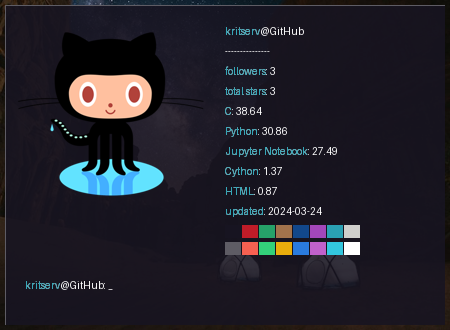
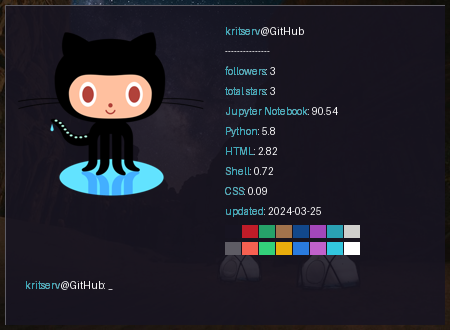
remove data from fork repository in script

Changed region(s): [[0.4978, 0.303, 0.7467, 0.6061], [0.6844, 0.6364, 0.7156, 0.6667]]

diff --git a/code/script.py b/code/script.py
@@ -45,8 +45,9 @@ def get_data(username, session):
         all_languages_urls = []
         
         for repo_data in response.json():
-            all_languages_urls.append(repo_data["languages_url"])
-            total_stars += repo_data["stargazers_count"]
+            if not repo_data["fork"]:
+                all_languages_urls.append(repo_data["languages_url"])
+                total_stars += repo_data["stargazers_count"]
             
         if total_stars > 999:
             total_stars = str(round(total_stars / 1000, 2)) + "k"
